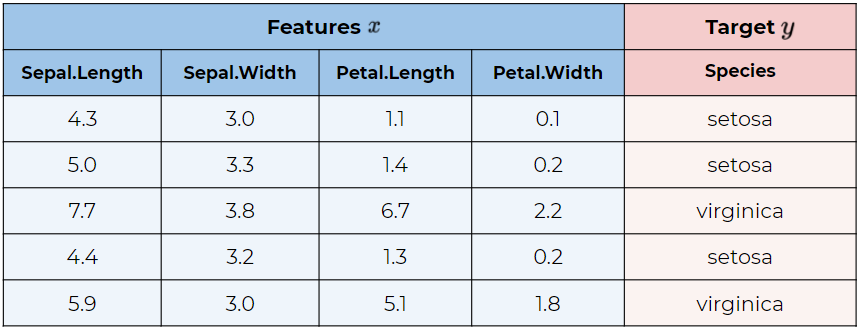
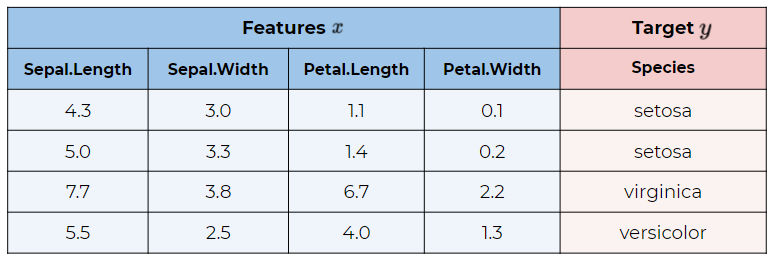
slides - basics - data -slide 2 - adjust added data excerpt

Changed region(s): [[0.0, 0.0, 0.9948, 0.9884]]

diff --git a/slides/ml-basics/basics-data.tex b/slides/ml-basics/basics-data.tex
@@ -168,10 +168,9 @@
   % picturecreated with google presentation https://docs.google.com/presentation/d/1hoUHBJmXzCyVQXT9uP4sI84N6leQ42YhigFvQiCY0oo/edit?usp=sharing
 
     \includegraphics[width = 0.4\textwidth]{figure_man/feat_targ_rel.jpg}
-    
      %picture created with google presentation
   %https://docs.google.com/presentation/d/1hnRPmCke8EqBhTrymC_pnuPe17Dk5iMkdBz6AQuIa3A/edit?usp=sharing
-    \includegraphics[width = 0.5\textwidth]{figure_man/ml-basic-data-example-iris.png} 
+    \includegraphics[width = 0.52\textwidth]{figure_man/ml-basic-data-example-iris.png} 
 
   
  
